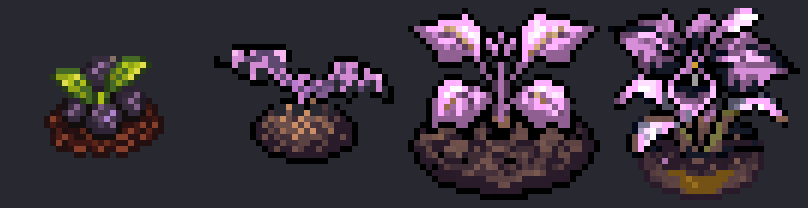
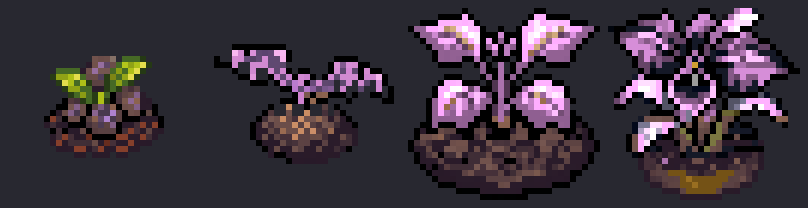
Bat orchid: all stages' soil matched to the growing stage
Claude-Session: https://claude.ai/code/session_01DZoCGNTKvTqdtWPybs567b

diff --git a/tools/art/crop_match.py b/tools/art/crop_match.py
@@ -10,7 +10,8 @@ def _classes(a: np.ndarray, soil_from_row: int = 20) -> dict:
     luma = 0.299 * r + 0.587 * g + 0.114 * b
     low = np.arange(a.shape[0])[:, None] >= soil_from_row
     leaf = alpha & (g > r + 12) & (g > b + 12)
-    soil = alpha & ~leaf & low & (luma < 110) & (r >= g) & (r < 170) & (r - b < 80) & (r - g < 55)
+    purple = (r > g + 15) & (b > g + 15)
+    soil = alpha & ~leaf & ~purple & low & (luma < 110) & (r >= g) & (r < 170) & (r - b < 80) & (r - g < 55)
     marks = alpha & ((luma < 40) | ((r > 150) & (g < 80) & (b < 80)))
     body = alpha & ~leaf & ~soil & ~marks
     return {"soil": soil, "leaf": leaf, "body": body}
